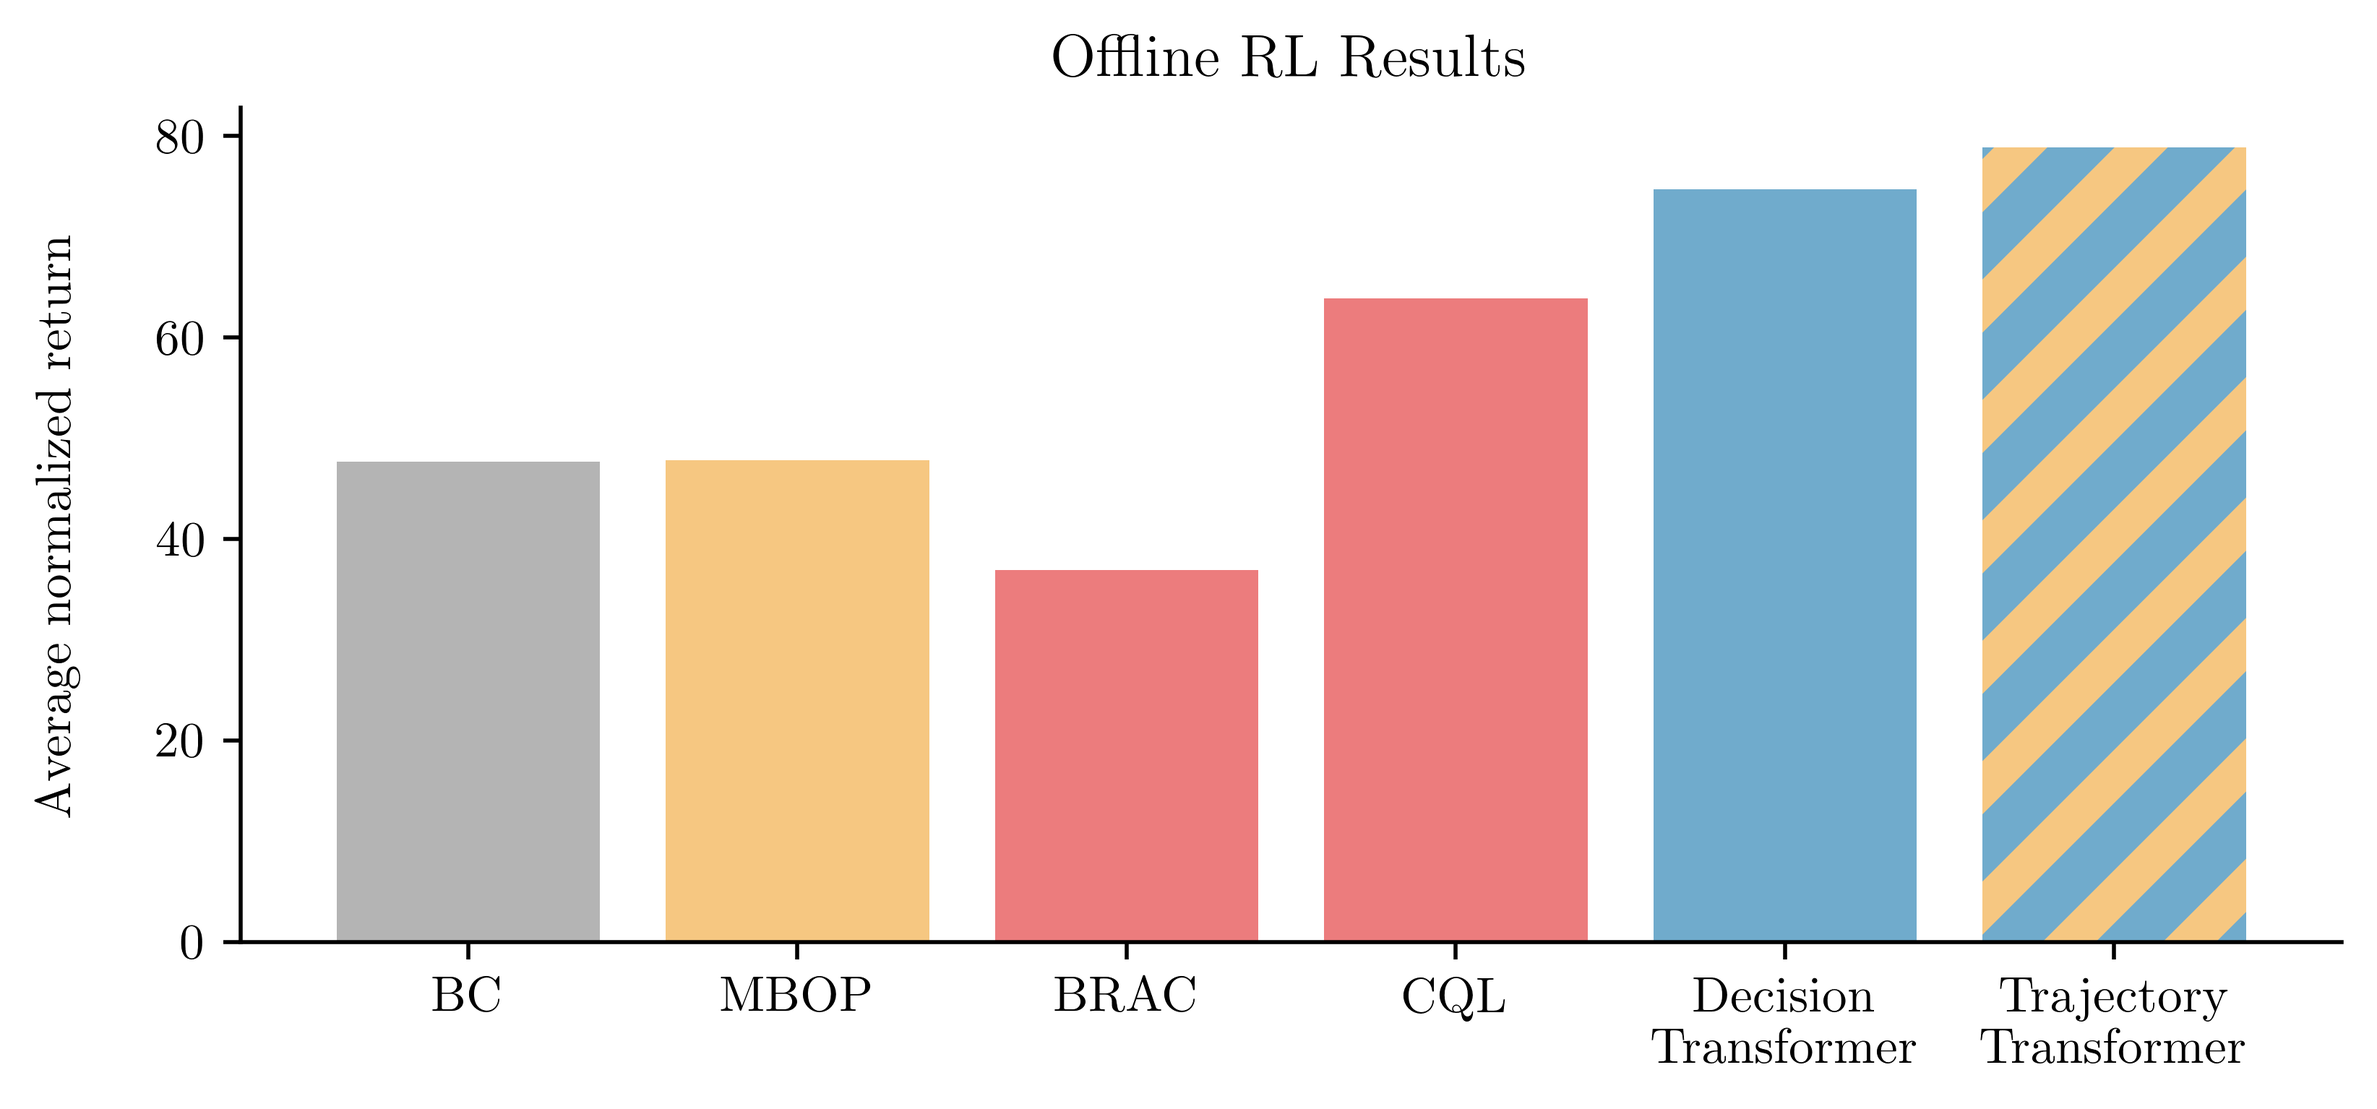
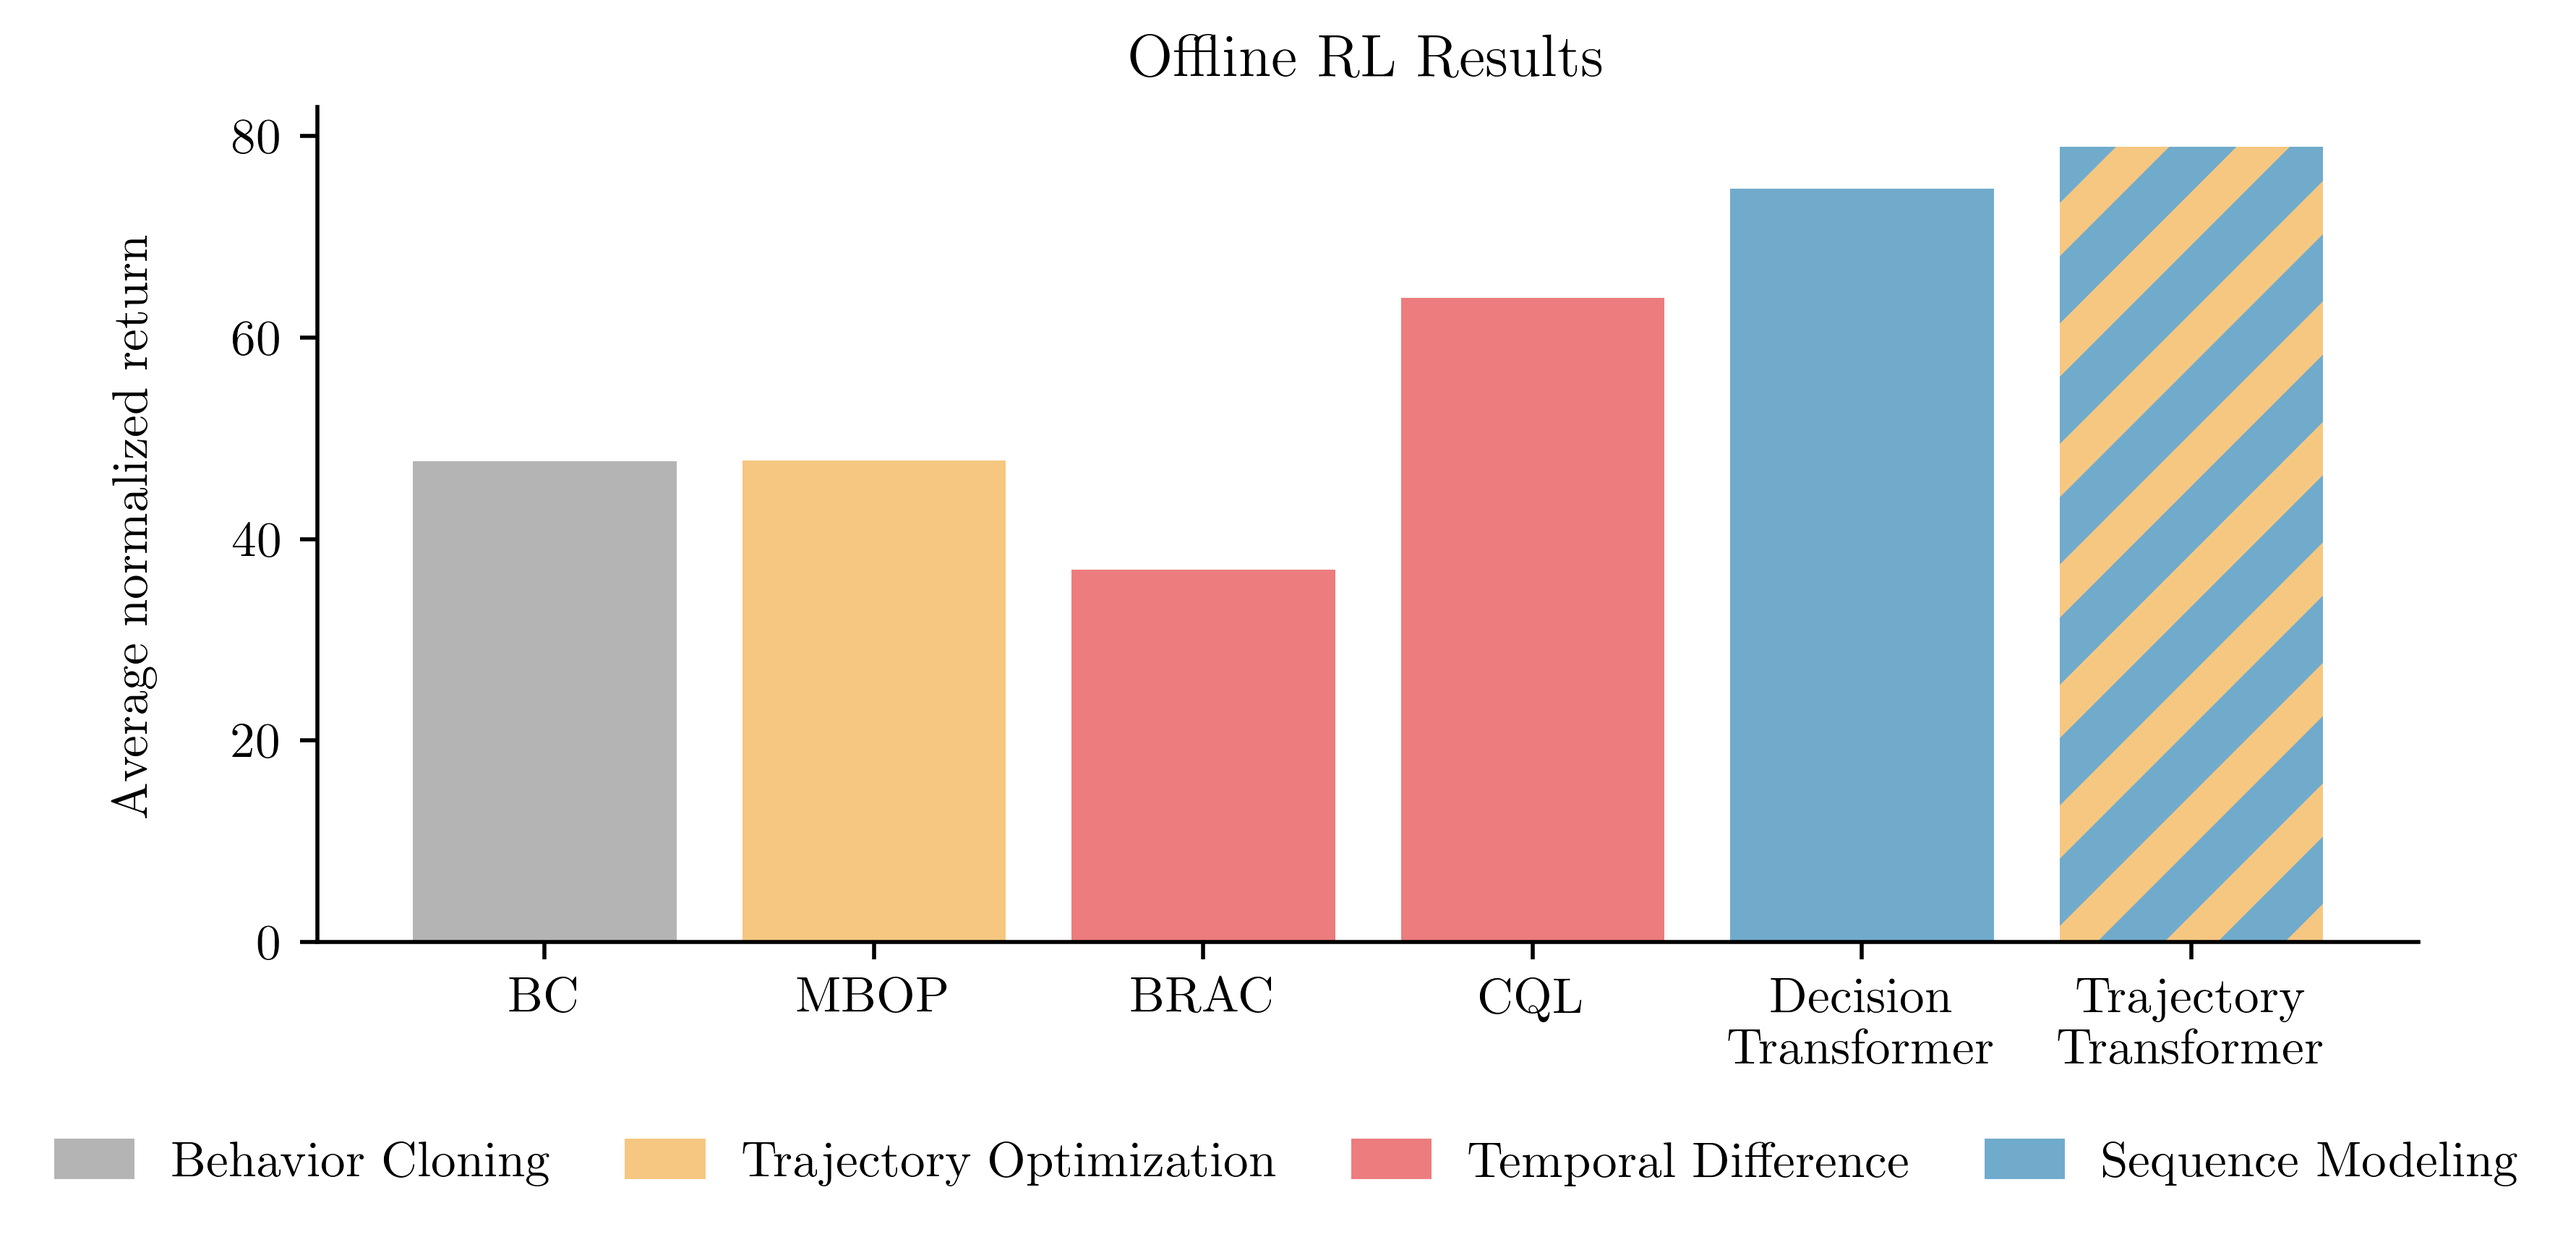
added bar plot legend

diff --git a/plotting/plot.py b/plotting/plot.py
@@ -11,6 +11,13 @@ class Colors:
 	red = '#EC7C7D'
 	blue = '#70ABCC'
 
+LABELS = {
+	# 'BC': 'Behavior\nCloning',
+	# 'MBOP': 'Model-Based\nOffline Planning',
+	# 'BRAC': 'Behavior-Reg.\nActor-Critic',
+	# 'CQL': 'Conservative\nQ-Learning',
+}
+
 def get_mean(results, exclude=None):
 	'''
 		results : { environment: score, ... }
@@ -46,9 +53,16 @@ if __name__ == '__main__':
 		Colors.red, Colors.red, Colors.blue, Colors.blue
 	]
 
-	plt.bar(algs, vals, color=colors, edgecolor=Colors.gold, lw=0)
+	labels = [LABELS.get(alg, alg) for alg in algs]
+	plt.bar(labels, vals, color=colors, edgecolor=Colors.gold, lw=0)
 	plt.ylabel('Average normalized return', labelpad=15)
 	plt.title('Offline RL Results')
+
+	legend_labels = ['Behavior Cloning', 'Trajectory Optimization', 'Temporal Difference', 'Sequence Modeling']
+	colors = [Colors.grey, Colors.gold, Colors.red, Colors.blue]
+	handles = [plt.Rectangle((0,0),1,1, color=color) for label, color in zip(legend_labels, colors)]
+	plt.legend(handles, legend_labels, ncol=4,
+		bbox_to_anchor=(1.07, -.18), fancybox=False, framealpha=0, shadow=False, columnspacing=1.5, handlelength=1.5)
 
 	matplotlib.rcParams['hatch.linewidth'] = 7.5
 	ax.patches[-1].set_hatch('/')
